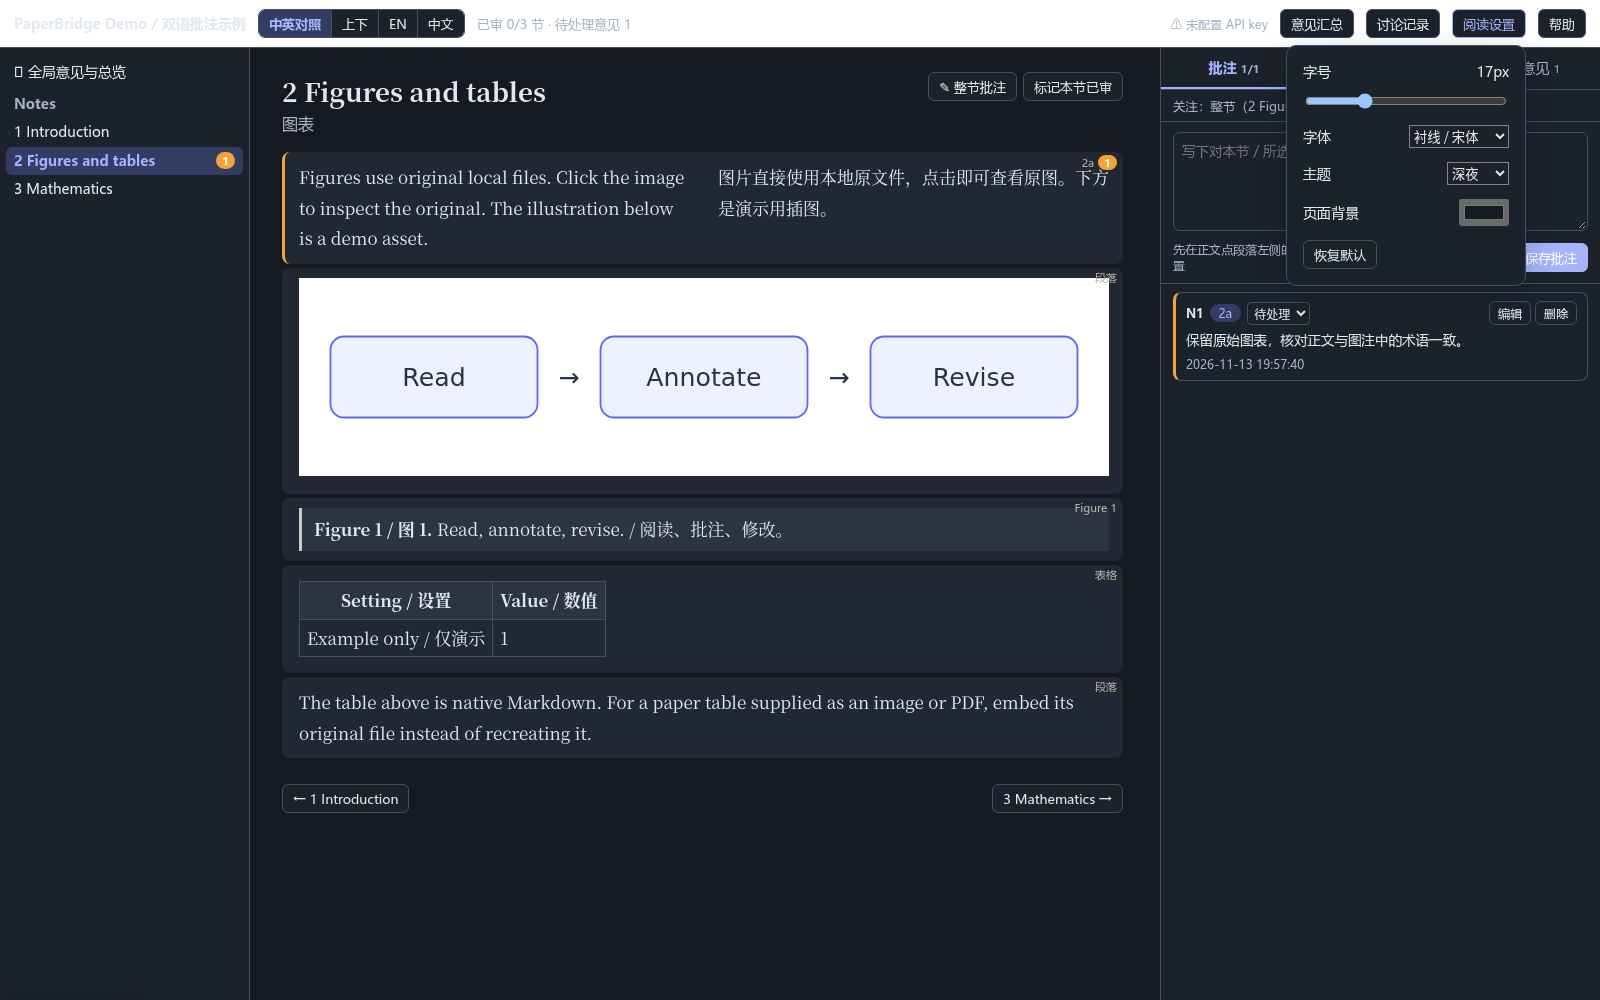
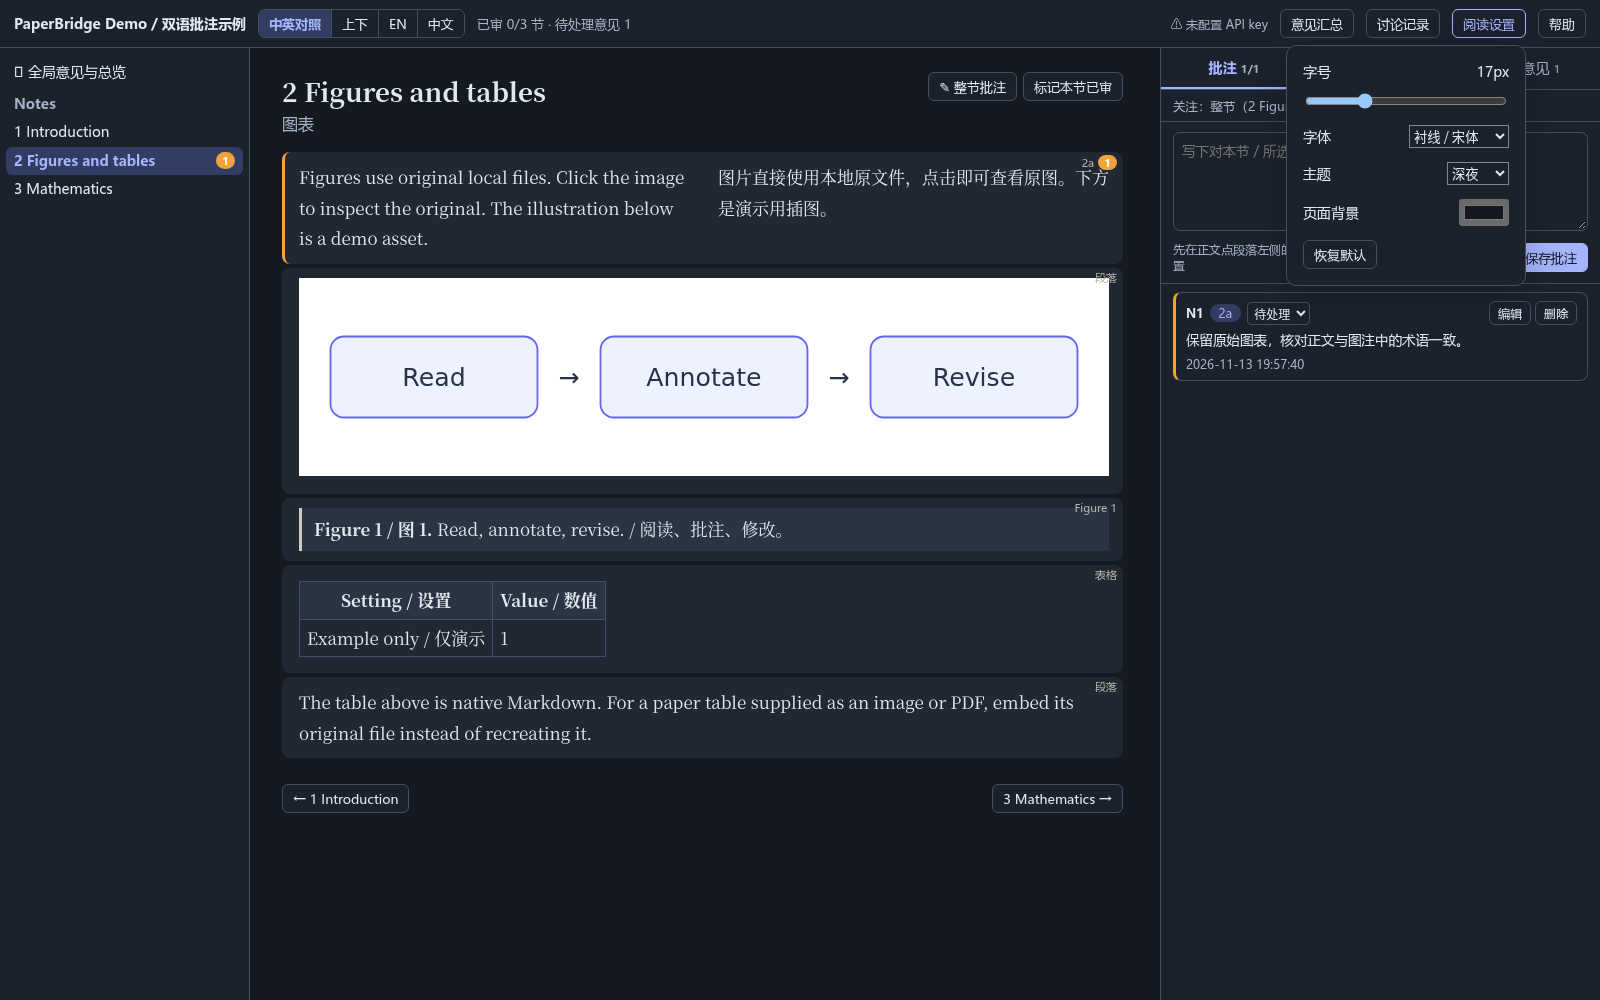
Polish dark theme toolbar contrast and previews

Changed region(s): [[0.0, 0.0, 1.0, 0.062], [0.9375, 0.248, 1.0, 0.279]]

diff --git a/static/style.css b/static/style.css
@@ -196,3 +196,5 @@ header,#toc,#panel,.btn,.seg button,.note,.gutter button,.modal-body,textarea,se
 .appearance-menu label { display:flex; flex-wrap:wrap; align-items:center; justify-content:space-between; gap:10px; margin-bottom:14px; }
 .appearance-menu input[type=range] { width:100%; }
 .pair-warning { color:var(--muted); padding:10px; border:1px solid var(--line); border-radius:6px; }
+#topbar { background:var(--surface); color:var(--ink); }
+:root[data-theme="dark"] .btn.primary { color:#151a21; }
